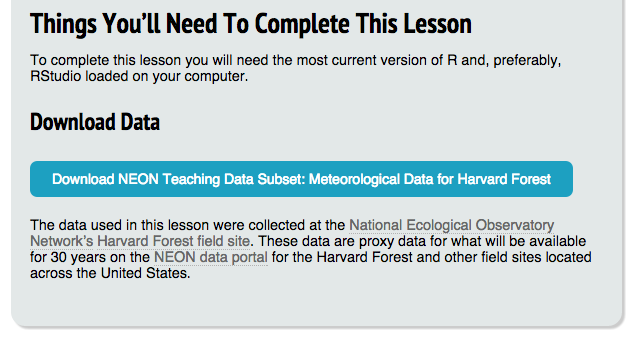
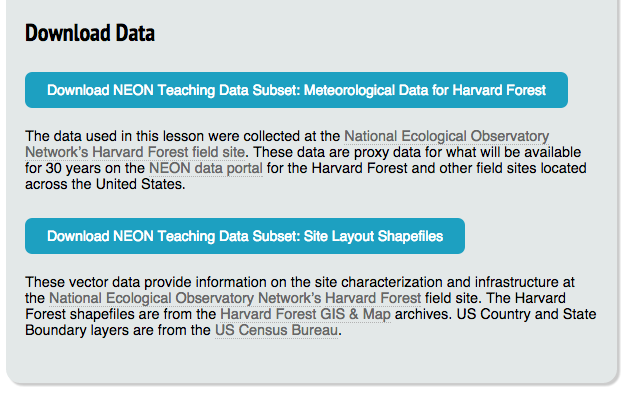
edits ready for review

diff --git a/_posts/2016-01-08-Set-Working-Directory-In-R.md b/_posts/2016-01-08-Set-Working-Directory-In-R.md
@@ -38,10 +38,9 @@ After completing this activity, you will:
 
  * Be able to set the `R` working directory.
  * Be able to download and unzip NEON Teaching Data Subsets. 
- * Know the difference between base and relative paths.  
- * Be able to write out both base and relative paths for a given file or
+ * Know the difference between full, base and relative paths.  
+ * Be able to write out both full and relative paths for a given file or
  directory. 
-
 
 ##Things You’ll Need To Complete This Lesson
 To complete this lesson you will need the most current version of R and, 
@@ -50,7 +49,6 @@ preferably, RStudio loaded on your computer.
 ###Download Data
 {% include/dataSubsets/_data_Met-Time-Series.html %}
 
-Teaching Data Subset For Challenge Activity: 
 {% include/dataSubsets/_data_Site-Layout-Files.html %}
 
 </div>
@@ -58,17 +56,17 @@ Teaching Data Subset For Challenge Activity:
 ##NEON Data Skills Tutorials
 Many NEON self-paced tutorials, available through the 
 [NEON Data Skills portal](http://www.NEONdataskills.org  "NEON Data Skills Portal"),
-utilize teaching data subsets which are hosted on the NEON Teaching Data Subsets
+utilize teaching data subsets which are hosted on the NEON Data Skills 
 fig**share** repository. If a data subset is required for a tutorial it can be 
 downloaded at the top of each tutorial in the **Download Data** section.  
 
-Prior to working with any data in `R`, we must set the *working directory* to
+Prior to working with any data in `R`, we must set the **working directory** to
 the location of the data files.  Setting the working directory tells `R` where 
 the data files are located on the computer.  If the working directory is not set
 first, when we try to open a file we will get an error telling us that `R` 
 cannot find the file.   
 
-<i class="fa fa-star"></i> **Data Tip:** Directory vs Folder. Both of these
+<i class="fa fa-star"></i> **Data Tip:** **Directory vs Folder** Both of these
 words refer to the same thing.  Folder makes a lot of sense when we think of an
 isolated folder as a "bin" containing many files. However, the analogy to a
 physical file folder falters when we start thinking about the relationship 
@@ -80,7 +78,7 @@ for other files or directories, or to save any output to.
 {: .notice}
 
 ##Download the Data
-First, we will download the data to a location on your computer. To download the 
+First, we will download the data to a location on the computer. To download the 
 data for this tutorial, select the blue button **Download NEON Teaching Data 
 Subset: Meteorological Data for Harvard Forest**.  Note: In other NEON Data
 Skills tutorials download all data subsets in the **Download Data** section
@@ -95,7 +93,7 @@ prior to starting the lesson.
 	 </figcaption>
 </figure> 
 
-After clicking on the "Download Data" button, the data will automatically 
+After clicking on the **Download Data** button, the data will automatically 
 download to the computer. 
 
 Second, we need to find the downloaded .zip folder. Many browsers default to 
@@ -116,7 +114,7 @@ Third, we must move the data files to the location we want to work with them.
 We recommend moving the .zip to a dedicated **data** directory within the
 **Documents** directory on your computer. This **data** directory can 
 then be a repository for all data subset you use for the NEON Data Skills 
-tutorials. Note: If you choose not to use the directory ~/Documents/data for 
+tutorials. Note: If you choose not to use the directory **~/Documents/data** for 
 your data, modify the directions below with the appropriate file path to 
 your "data" directory. 
 
@@ -125,20 +123,19 @@ accessed. Use your favorite tool that can unpackage/open .zip files (e.g.,
 winzip, Archive Utility, etc). The files will now be accessible in a folder 
 named `NEON-DS-Met-Time-Series`. 
 
-Now that we have our data in an accessible format, we can move into `R` to set
-the working directory. 
-
-
 <div id="challenge" markdown="1">
 ##Challenge: Download and Unzip Teaching Data Subset
 Prepare the **Site Layout Shapefiles Teaching Data Subset** so that the files
 are accessible and ready to be opened in`R`. 
 </div>
 
+Now that we have our data in an accessible format, we can move into `R` to set
+the working directory. 
+
 ##The R Working Directory
-In `R` the working directory is the directory where `R` starts when looking for 
-any file (or file path) to open and where it save the output.  Why do we want to
-do this?  
+In `R`, the working directory is the directory where `R` starts when looking for 
+any file to open (as directed by a file path) and where it save the output.  
+Why do we want to do this?  
 
 We could just write our `R` scripts with the full or base path to each file we 
 want to open or save.  However, it is more efficient if we have a **base file 
@@ -161,18 +158,18 @@ path**).
 The data downloaded and unzipped in the previous steps are located within a 
 nested set of directories:  
  
- * primary-level/home directory:  neon 
-	+ This directory isn't obvious as we are within this directory once we logged
+ * primary-level/home directory:  **neon**
+	+ This directory isn't obvious as we are within this directory once we log
 	into the computer. 
 	+ You will see your own user ID.
- * secondary-level directory:     Documents
- * tertiary-level directory: 	  data
- * quaternary-level directory:    NEON-DS-Met-Time-Series
- * quaternary-level directory:    NEON-DS-Site-Layout-Shapefiles 
+ * secondary-level directory:     **Documents**
+ * tertiary-level directory: 	  **data**
+ * quaternary-level directory:    **NEON-DS-Met-Time-Series**
+ * quaternary-level directory:    **NEON-DS-Site-Layout-Shapefiles** 
 
-####Base Path
-The **full path** is essentially the full "directions" for how to find the desired
-directory or file. It **always** starts with the home directory 
+####Full & Base Paths
+The **full path** is essentially the complete "directions" for how to find the 
+desired directory or file. It **always** starts with the home directory 
 (e.g., `/Users/neon/`). A full path is the **base path** when used to set 
 the working directory to a specific directory. The base path for the
  `NEON-DS-Met-Time-Series` directory would be:
@@ -182,7 +179,7 @@ the working directory to a specific directory. The base path for the
 
 <i class="fa fa-star"></i> **Data Tip:** Pathways and the home directory in 
 different operating systems will appear slightly different. Linux will appear as
- `/home/neon/`, Windows will be similar to `C:\Documents and Settings\neon\` or
+ `/home/neon/`. Windows will be similar to `C:\Documents and Settings\neon\` or
  `C:\Users\neon\`. The format varies by Windows version. Make special note of 
 the direction of the slashes. Mac OS X and Unix format will appear as
  `/Users/neon/`. This tutorial will show Mac OS X output unless specifically
@@ -192,10 +189,9 @@ noted.
 <div id="challenge" markdown="1">
 ##Challenge: Full File Path
 Write out the full path for the `NEON-DS-Site-Layout-Shapefiles` directory.  Use
-the format of the computer you are currently using.  
+the format of the operating system you are currently using.  
 
-Bonus: Write the path in a Linux format (if you are currently using Linux, 
-choose one of the other formats). 
+Bonus: Write the path as for one of the other operating systems. 
 </div>
 
 ####Relative Path
@@ -229,28 +225,27 @@ Use the format of your current operating system:
 2. Write out the **relative path** for the `Boundary-US-State-Mass.shp` file
 assuming that the working directory is set to `/Users/neon/Documents/data/`.  
 
-Bonus: Write both paths using an alternate operating system format. 
+Bonus: Write the paths as for one of the other operating systems. 
 </div>
 
-###Find a Full Path to File in Unknown Location
+###Find a Full Path to a File in Unknown Location
 If you are unsure of the path to a specific directory or file, you can
 find this information for a particular file/directory of interest by looking in 
 the:
 
 * Windows:  **Properties**/ General tab (right click on the file/directory) or in the file 
 path bar at the top of each window (select versions). 
-* Mac: **Get Info**  (right clicking/ control+click on the file/directory)
+* Mac OS X: **Get Info**  (right clicking/control+click on the file/directory)
 
 The file path may appear as: 
 
 Computer > Users > neon > Documents > data > NEON-DS-Met-Time-Series
 
-Copy and paste this information to automatically reformat into the base 
+Copy and paste this information to automatically reformat into the full 
 path to the directory or file: 
 
-Windows:    C:\Users\neon\Documents\data\NEON-DS-Met-Time-Series\
-
-Mac OS X:   /Users/neon/Documents/data/NEON-DS-Met-Time-Series
+* Windows:    `C:\Users\neon\Documents\data\NEON-DS-Met-Time-Series`
+* Mac OS X:   `/Users/neon/Documents/data/NEON-DS-Met-Time-Series`
 
 ###Determine Current Working Directory
 Once we are in the `R` program, we can view the current working directory
@@ -261,33 +256,44 @@ using the code `getwd()`.
     [1] "/Users/neon"
 
 The working directory is currently set to the home directory `/Users/neon` 
-(your current working directory will be different).  
+Remember, your current working directory will have a different user name and may
+appear different based on operating system.  
 
 This code can be used at any time to determine the current working directory.  
 
-
 ##Set the Working Directory
-To set our current working directory to the location where our data is can
-either set the working directory in the `R` script or use our current `R` GUI to
-select the working directory.
+To set our current working directory to the location where our data are located,
+we can either set the working directory in the `R` script or use our current GUI
+to select the working directory.
 
 <i class="fa fa-star"></i> **Data Tip:** All NEON Data Skills tutorials are
 written assuming the working directory is the parent directory to the downloaded
-data.  This allows for multiple data subsets to be accessed in the tutorial 
-without resetting the working directory.  
+data (the **data** directory in this tutorial). This allows for multiple data 
+subsets to be accessed in the tutorial without resetting the working directory.  
 {: .notice} 
 
-We want to set our working directory to the *data* folder.
+We want to set our working directory to the **data** directory.
 
 ###Set the Working Directory: Relative Path in Script
 We can set the working directory using the code `setwd("PATH")` where PATH is 
 the file path to the desired directory.  
 
-Now, set your working directory to the folder where you have the data saved. 
+Now, set your working directory to the directory where you have the data saved. 
 There is no `R` output from `setwd()`. If we want to check that the working
-directory is correctly set we can use `getwd()`.  
+directory is correctly set we can use `getwd()`.
+ 
+####Example Windows File Path
+Notice the the backslashes used in Windows paths must be changed to slashes in
+`R`. 
 
-####Example Mac File Path
+	# set the working directory to `data` folder
+	setwd("C:/Users/neon/Documents/data")
+
+	# check to ensure path is correct
+	getwd()
+	[1] "C:/Users/neon/Documents/data"
+
+####Example Mac OS X File Path
 	# set the working directory to `data` folder
 	setwd("/Users/neon/Documents/data")
 
@@ -295,20 +301,14 @@ directory is correctly set we can use `getwd()`.
 	getwd()
 	[1] "/Users/neon/Documents/data"
 
-####Example Windows File Path
-	# set the working directory to `data` folder
-	setwd("C:\Users\neon\Documents\data\")
+<i class="fa fa-star"></i> **Data Tip:** If using RStudio, you can view the 
+contents of the working directory in the Files pane.
+{: .notice}
 
-	# check to ensure path is correct
-	getwd()
-	[1] "\Users\neon\Documents\data"
-
-Once set you can view the contents of the working directory in the files tab 
-in RStudio. 
-<figure>
+ <figure>
 	 <a href="{ site.baseurl }}/images/set-working-dir/RStudio-working-directory.png">
 	 <img src="{ site.baseurl }}/images/set-working-dir/RStudio-working-directory.png"></a>
-	 <figcaption> The Files tab in RStudio shows the contents of the current
+	 <figcaption> The Files pane in RStudio shows the contents of the current
 	 working directory.  Source: National Ecological Observatory Network
 	 (NEON)  
 	 </figcaption>
@@ -316,9 +316,8 @@ in RStudio.
 
 
 ###Set the Working Directory: Using RStudio GUI
-To use the RStudio GUI to set the working directory:
 
-1. go to `Session` in menu bar,
+1. Go to `Session` in menu bar,
 2. select `Select Working Directory`,
 3. select `Choose Directory`,
 4. in the new window that appears, select the appropriate directory. 
@@ -336,13 +335,13 @@ To use the RStudio GUI to set the working directory:
 
 ####Windows Operating Systems: 
 
-1. go to the `File` menu bar,
+1. Go to the `File` menu bar,
 2. select `Change dir...` or `Change Working Directory`,
 3. in the new window that appears, select the appropriate directory.
 
 <figure>
 	 <a href="{ site.baseurl }}/images/set-working-dir/Windows-RGUI-setWD.png">
-	 <img src="{ site.baseurl }}/images/set-working-dir/Window-RGUI-setWD.png"></a>
+	 <img src="{ site.baseurl }}/images/set-working-dir/Windows-RGUI-setWD.png"></a>
 	 <figcaption> How to set the working directory using the R GUI in Windows.
 	 Source: National Ecological Observatory Network (NEON) 
 	 </figcaption>
@@ -350,7 +349,7 @@ To use the RStudio GUI to set the working directory:
 
 ####Mac Operating Systems:
 
-1. go to the `Misc` menu, 
+1. Go to the `Misc` menu, 
 2. select `Change Working Directory`,
 3. in the new window that appears, select the appropriate directory.
 
